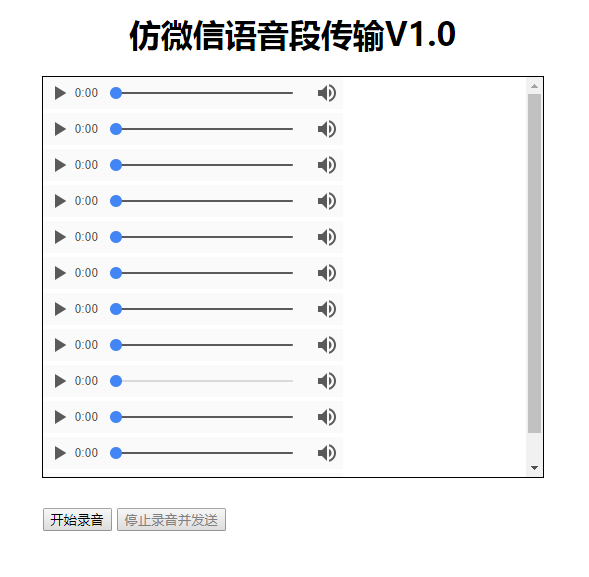
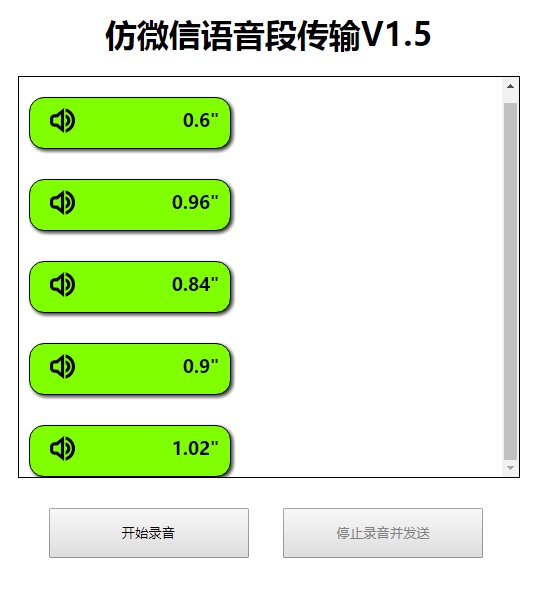
update

diff --git a/static/js/app.js b/static/js/app.js
@@ -3,6 +3,7 @@ var record = document.querySelector('.record');
 var stop = document.querySelector('.stop');
 var send = document.querySelector('.send');
 var msg_content = document.querySelector('.content');
+var audio = null
 
 // 初始化按钮状态
 stop.disabled = true;
@@ -28,11 +29,35 @@ ws.onmessage = function(evt) {
     var blob_obj = new Blob([evt.data], { 'type': 'audio/ogg; codecs=opus' })
 
     // 添加audio元素
-    var audio = document.createElement('audio');
-    audio.setAttribute('controls', '');
-    audio.controls = true;
+    var tmp_div = document.createElement('div');
+    audio = document.createElement('audio');
+    var tmp_span = document.createElement('span');
+    var tmp_btn = document.createElement('img');
+   
+    tmp_div.setAttribute('class', 'myAudio');
+    tmp_span.setAttribute('class', 'audio_time');
+    tmp_btn.setAttribute('class', 'play_btn');
+    tmp_btn.src = "/static/images/audio-high.png"
+    audio.setAttribute('id', 'myAudio');
     audio.src = window.URL.createObjectURL(blob_obj);
-    msg_content.appendChild(audio);
+    audio.onloadedmetadata = function () {
+      var dtime = 0;
+      setTimeout(() => {
+        dtime = audio.duration;
+        tmp_span.innerHTML = dtime + '"';
+      }, 10);
+    };
+    tmp_btn.onclick = function () {
+      if (audio.paused) {
+        audio.play();
+      } else {
+        audio.pause();
+      }
+    }
+    tmp_div.appendChild(audio);
+    tmp_div.appendChild(tmp_btn);
+    tmp_div.appendChild(tmp_span);
+    msg_content.appendChild(tmp_div);
 }
 
 

diff --git a/index.html b/index.html
@@ -4,13 +4,13 @@
     <meta charset="UTF-8">
     <meta name="viewport" content="width=device-width, initial-scale=1.0">
     <meta http-equiv="X-UA-Compatible" content="ie=edge">
-    <title>仿微信语音段传输V1.0</title>
+    <title>仿微信语音段传输V1.5</title>
     <!-- Main CSS -->
     <link rel="stylesheet" type="text/css" href="static/css/app.css" />
 </head>
 <body>
     <div class="title">
-        <h1>仿微信语音段传输V1.0</h1>
+        <h1>仿微信语音段传输V1.5</h1>
     </div>
 
     <div class="content">
@@ -18,8 +18,8 @@
     </div>
 
     <div class="control-planel">
-        <button class="record" onclick="startRecord">开始录音</button>
-        <button class="stop" onclick="stopRecord">停止录音并发送</button>
+        <button class="record" style="width:40%;height:50px;margin-left:30px;" onclick="startRecord">开始录音</button>
+        <button class="stop" style="width:40%;height:50px;margin-left:30px;" onclick="stopRecord">停止录音并发送</button>
     </div>
 
 

diff --git a/static/css/app.css b/static/css/app.css
@@ -22,3 +22,30 @@ html, body {
     margin-top: 30px;
 }
 
+.myAudio {
+    height: 50px;
+    width: 200px;
+    background-color: chartreuse;
+    border: 1px solid black;
+    border-radius: 15px;
+    margin-top: 30px;
+    margin-left: 10px;
+    box-shadow:2px 2px 5px #333333;
+}
+
+.play_btn {
+    width: 25px;
+    height: 25px;
+    margin-top: 10px;
+    margin-left: 20px;
+    border: none;
+}
+
+.audio_time {
+    font-size: 18px;
+    font-family: 'Microsoft YaHei';
+    font-weight: bold;
+    float: right;
+    margin-top: 10px;
+    margin-right: 10px;
+}

diff --git a/README.md b/README.md
@@ -10,6 +10,7 @@
 # 启动
 - pip install tornado
 - python server.py
+- 启动nginx或caddy服务器
 - 一个浏览器打开index.html
 - 另一个浏览器打开index.html
 - 开始录音，停止自动发送
